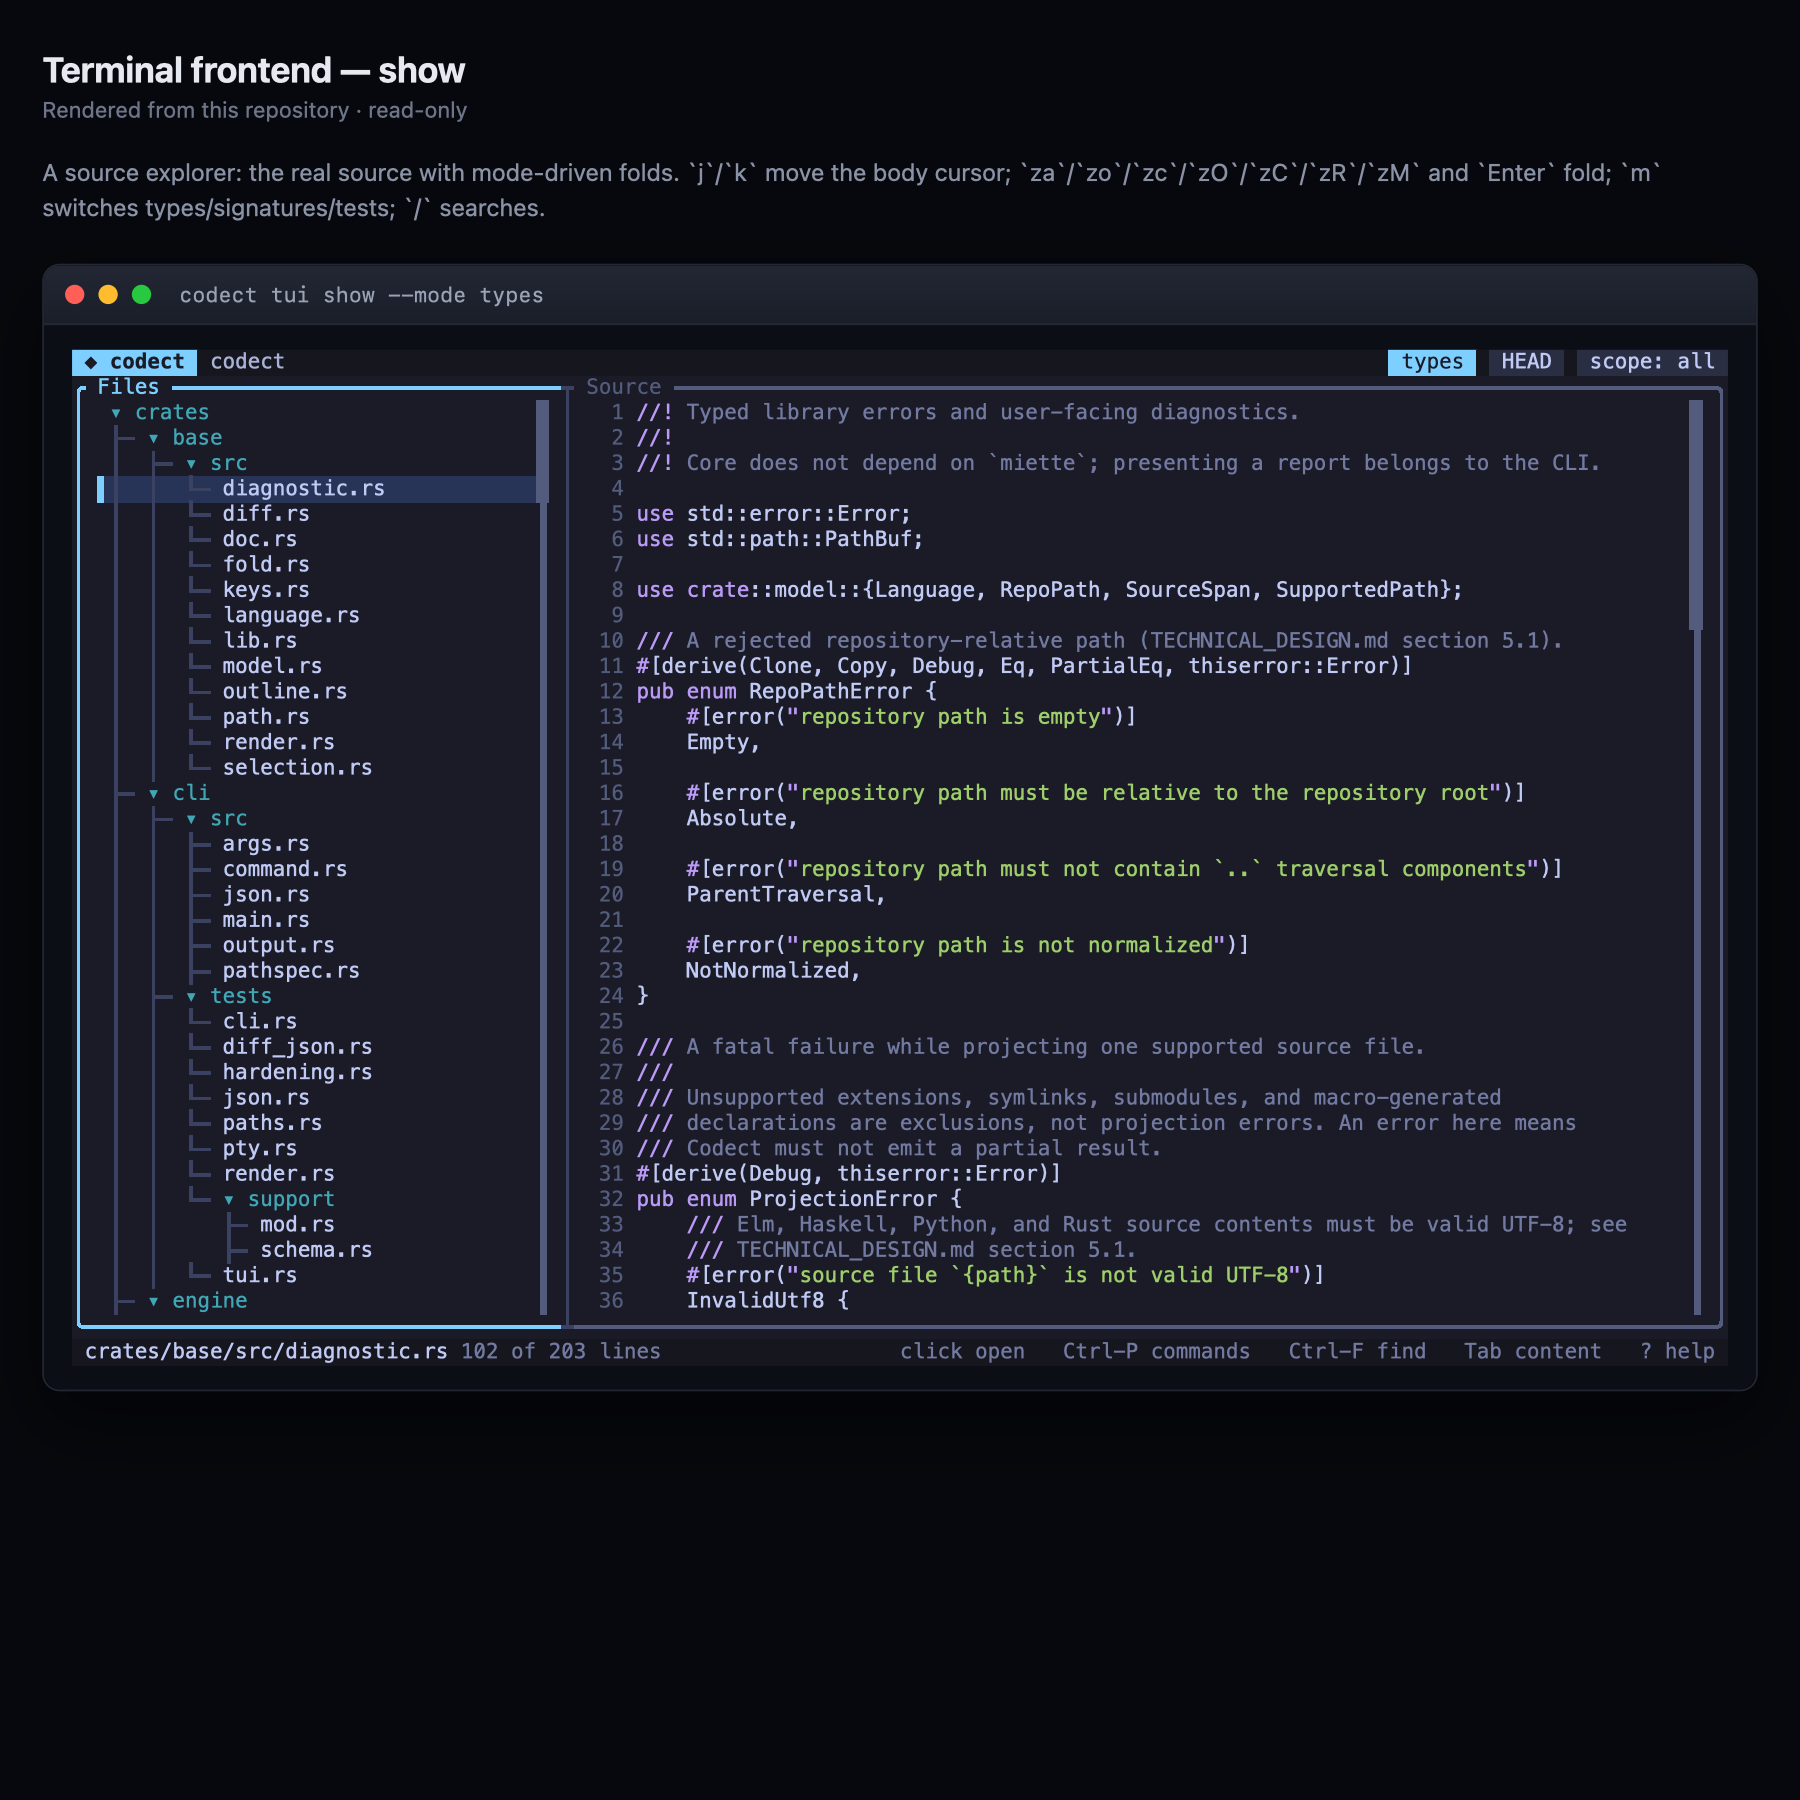
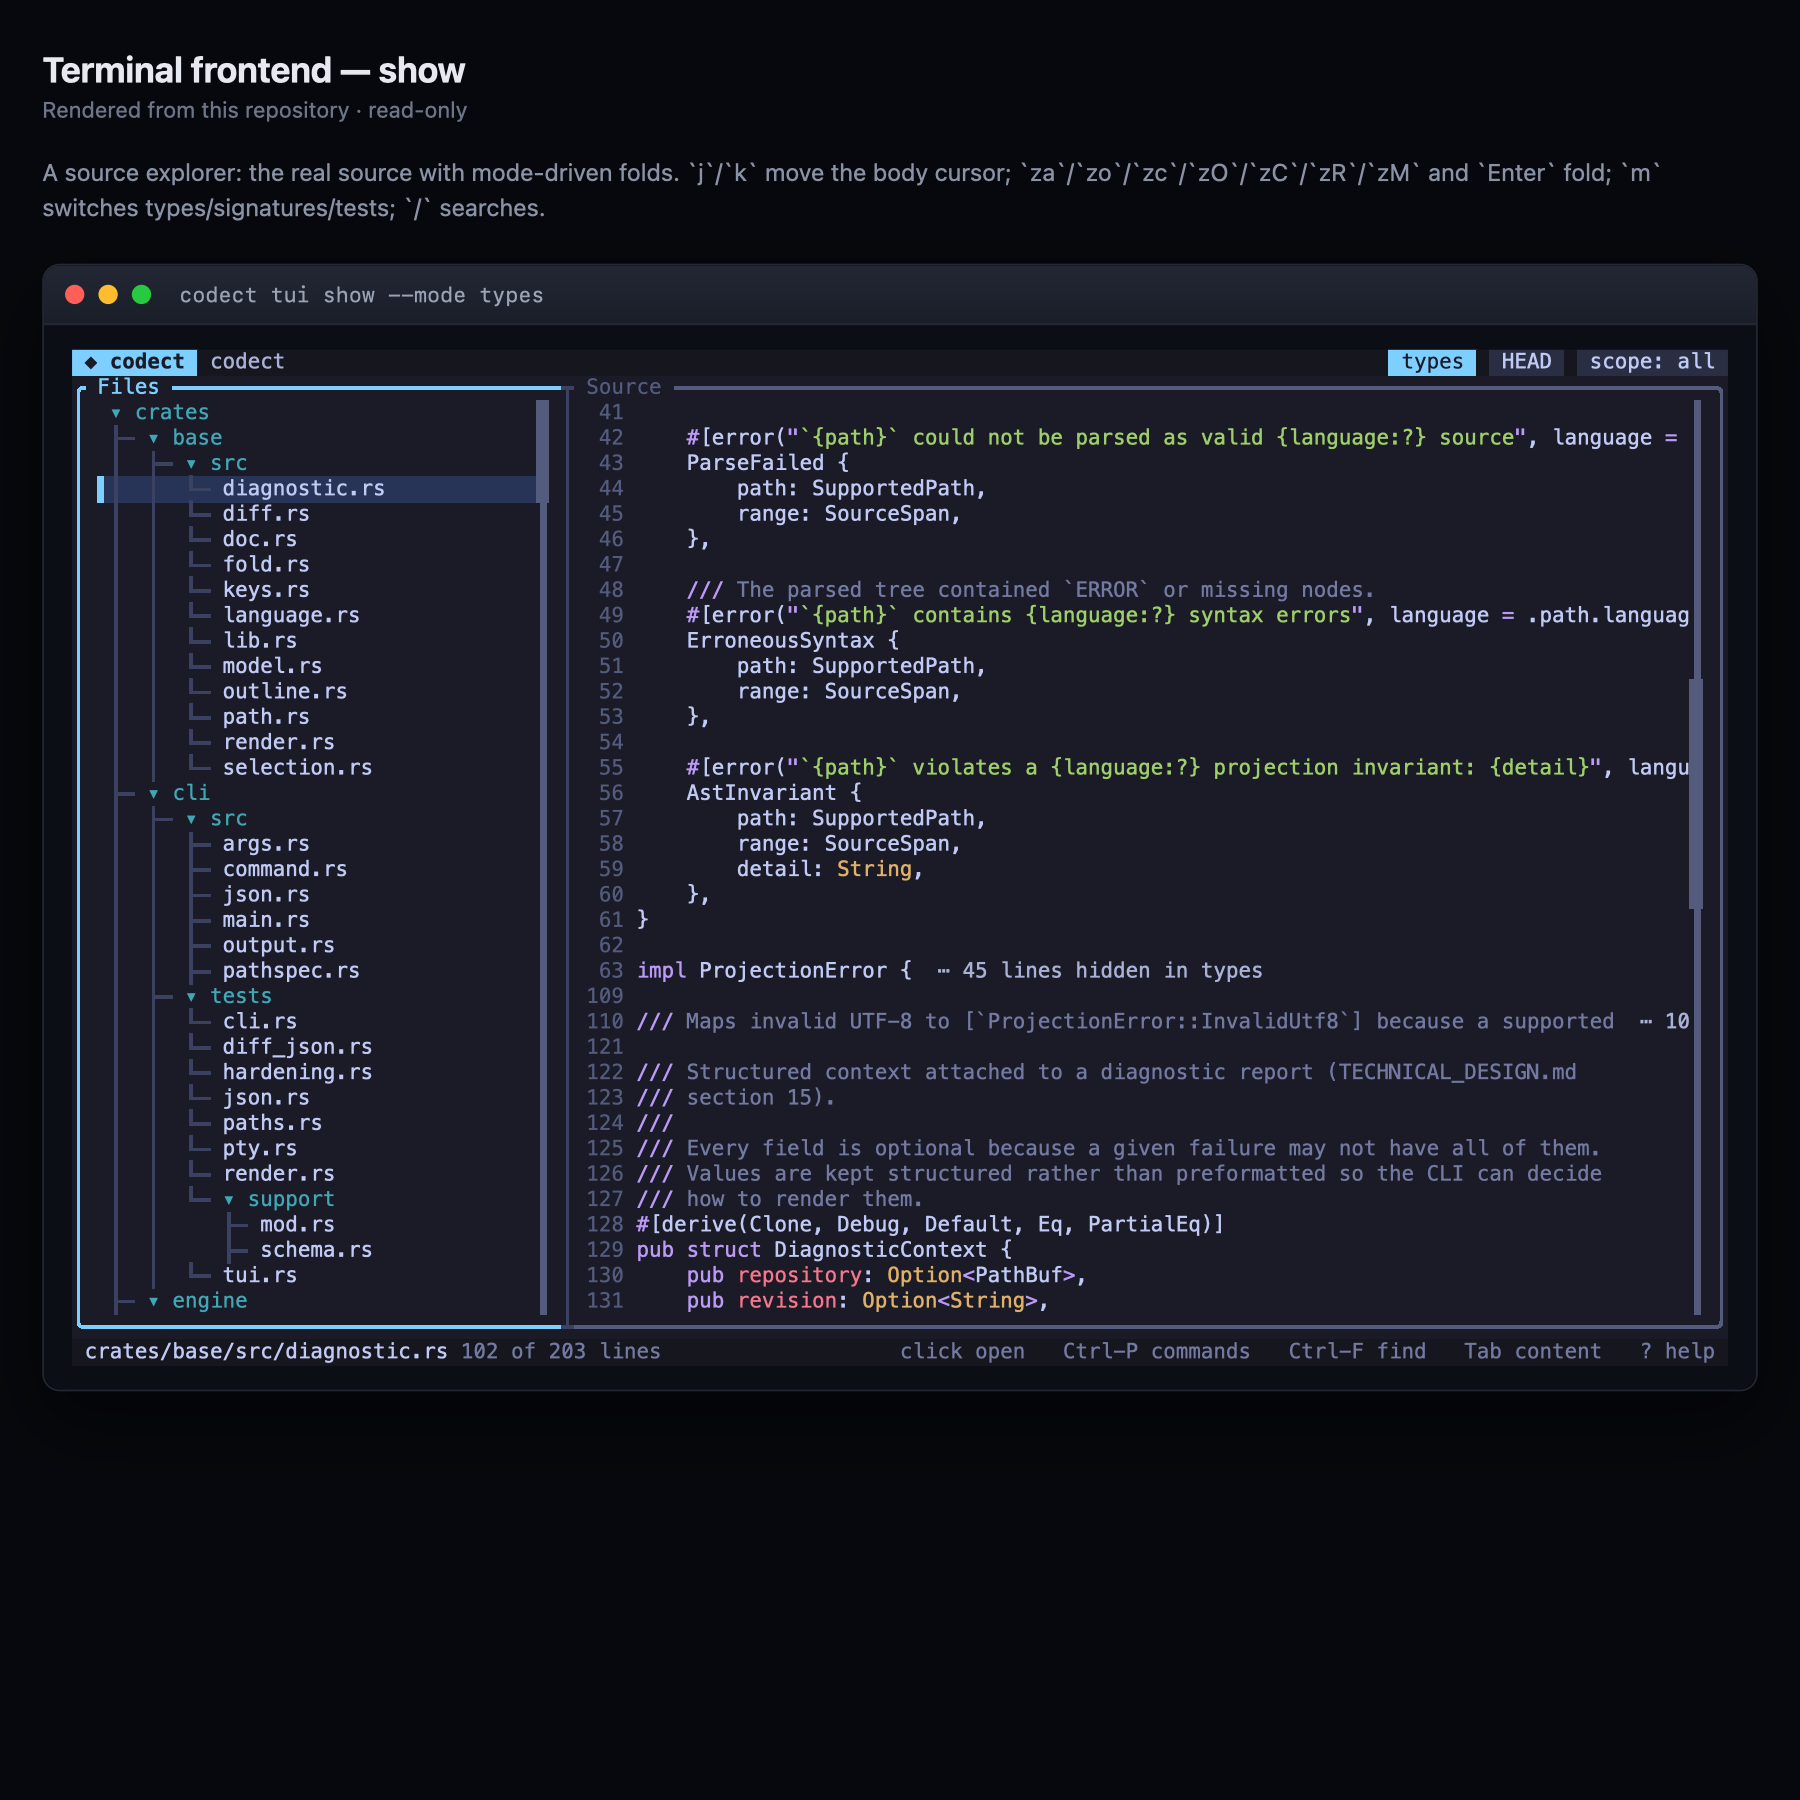
docs(showcase): scroll the tui show frame onto a fold

diff --git a/crates/tui/examples/frames.rs b/crates/tui/examples/frames.rs
@@ -21,7 +21,8 @@ use engine::{DiffBase, Engine};
 use ratatui::buffer::Buffer;
 use ratatui::style::{Color, Modifier};
 use tui::bench::{
-    Key, Model, Msg, diff_model, history_model, render_to_buffer, settle, show_model, update,
+    Key, Model, Msg, diff_model, history_model, render_to_buffer, set_body_scroll, settle,
+    show_model, update,
 };
 
 /// The pinned range for the diff frames, matching the CLI showcase (PR #16).
@@ -30,6 +31,10 @@ const RANGE_TARGET: &str = "4e09c9c";
 /// A pinned, stable first-parent range for the commits picker.
 const COMMITS_BASE: &str = "4e09c9c";
 const COMMITS_TARGET: &str = "19decfa";
+/// The show frame opens on `crates/base/src/diagnostic.rs`; scroll far enough
+/// that its collapsed regions — the headline `⋯ N lines hidden in types` fold
+/// rows — are in the 40-row viewport (the first starts at source line 63).
+const SHOW_FOLD_SCROLL: u16 = 40;
 
 fn main() -> ExitCode {
     let args = match Args::parse() {
@@ -66,6 +71,8 @@ fn run(args: &Args) -> Result<(), Box<dyn std::error::Error>> {
     let files = engine.show_source_outlines("HEAD", ProjectionMode::Types, &selection)?;
     let mut show = show_model(ProjectionMode::Types, files, width, height);
     show.root = root.clone();
+    // Scroll onto a fold so the showcase frames the source explorer's headline.
+    set_body_scroll(&mut show, SHOW_FOLD_SCROLL);
     render("tui-show", &show, &args.out, width, height)?;
 
     // The command palette is a global overlay; `update` opens it purely.
